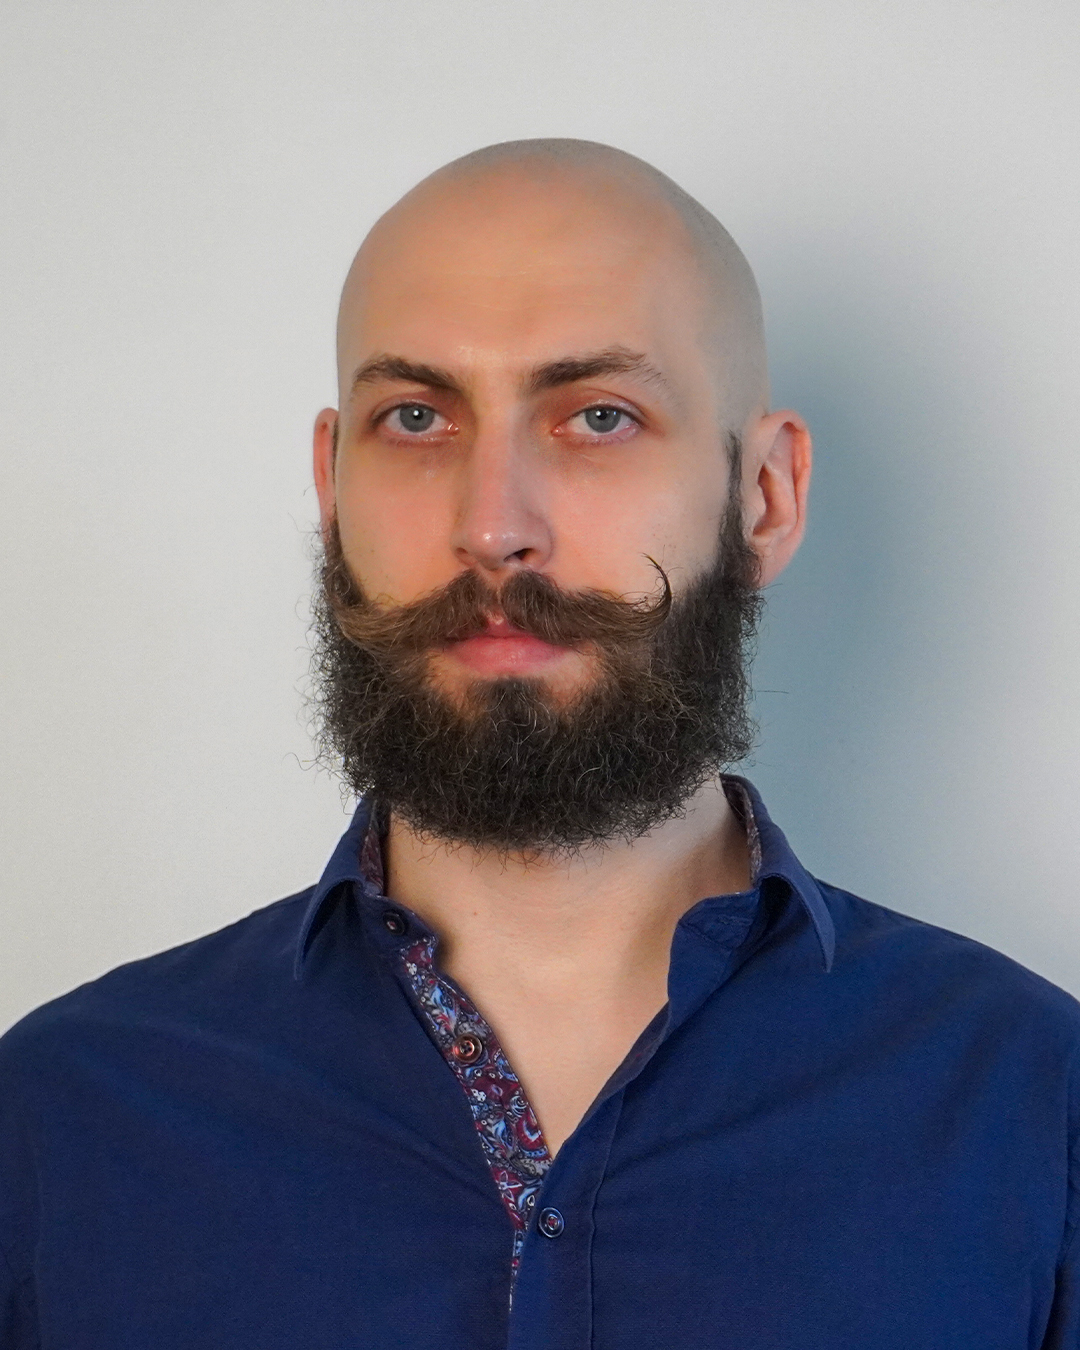
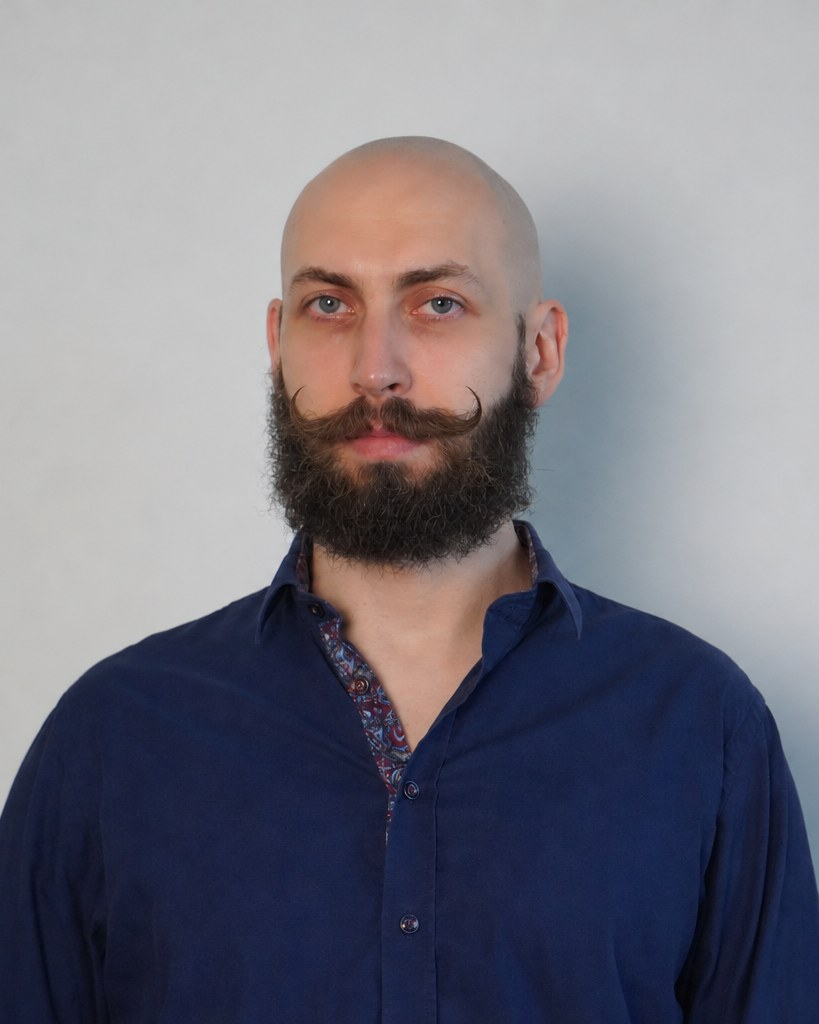
about me

diff --git a/src/content.config.ts b/src/content.config.ts
@@ -117,4 +117,46 @@ const sandbox = defineCollection({
   }),
 });
 
-export const collections = { home, sandbox };
+// The About page: the company in one line, the founder in two, partners, contact.
+const heading = { eyebrow: z.string(), heading: z.string() };
+const about = defineCollection({
+  loader: glob({ pattern: '*.md', base: './src/content/about' }),
+  schema: z.object({
+    title: z.string(),
+    description: z.string(),
+    hero: z.object({
+      eyebrow: z.string(),
+      headline: z.string(),
+      headlineAccent: z.string(),
+      lede: z.string(),
+      ledeEm: z.string(),
+      role: z.string(),
+    }),
+    founder: z.object({ label: z.string(), body: z.string() }),
+    partners: z.object({
+      ...heading,
+      aside: z.string(),
+      items: z
+        .object({
+          name: z.string(),
+          category: z.string(),
+          body: z.string(),
+          href: z.url(),
+          /** File in design-system/assets/; absent → the name stands in for it. */
+          logo: z.string().optional(),
+        })
+        .array()
+        .min(1),
+      visit: z.string(),
+    }),
+    contact: z.object({
+      ...heading,
+      locationLabel: z.string(),
+      location: z.string(),
+      email: z.email(),
+      linkedin: z.url(),
+    }),
+  }),
+});
+
+export const collections = { home, sandbox, about };

diff --git a/tests/e2e/landing.spec.ts b/tests/e2e/landing.spec.ts
@@ -86,3 +86,17 @@ test('no horizontal overflow at 390 px, either locale', async ({ page }) => {
     expect(overflow, path).toBeLessThanOrEqual(0);
   }
 });
+
+test('the About page is the company page, in both locales', async ({ page }) => {
+  for (const [path, lang, headline] of [
+    ['/about', 'en', "Robotics is gated. We're deleting the gate."],
+    ['/de/about', 'de', 'Robotik hat ein Tor. Wir reißen es ab.'],
+  ]) {
+    await page.goto(path);
+    await expect(page.locator('html')).toHaveAttribute('lang', lang);
+    await expect(page.locator('#top h1')).toHaveText(headline);
+    await expect(page.locator('#top img[alt="Marcus Röper"]')).toBeVisible();
+    await expect(page.locator('#partners a[href="https://roboticscollective.org/"] img')).toHaveCount(1);
+    await expect(page.locator('#contact a[href^="mailto:"]')).toHaveCount(1);
+  }
+});

diff --git a/src/content/about/de.md b/src/content/about/de.md
@@ -1,0 +1,32 @@
+---
+title: Über uns — Homunculus Robotics
+description: Homunculus Robotics aus Köln/Bonn baut den Ort, an dem jede:r einen Roboter erfinden kann. Gegründet von Marcus Röper.
+hero:
+  eyebrow: Über uns
+  headline: Robotik hat ein Tor.
+  headlineAccent: Wir reißen es ab.
+  lede: Homunculus Robotics baut den Ort, an dem jede:r einen Roboter erfinden kann — Teile im Browser zusammenstecken, die Physik-Engine Ja oder Nein sagen lassen
+  ledeEm: und zusehen, wie deine Erfindung sich bewegen lernt.
+  role: Gründer
+founder:
+  label: Gründer
+  body: Marcus Röper — ausgezeichneter KI-Entwickler (Deutscher KI-Innovationspreis) mit jahrelanger Erfahrung mit KI für die Industrieautomation.
+partners:
+  eyebrow: 01 — Partner
+  heading: Die Menschen, mit denen das hier entsteht.
+  aside: Communities, Labore und Unternehmen, die am selben Tor arbeiten — von einer anderen Seite.
+  visit: Besuchen →
+  items:
+    - name: Robotics Collective Aachen
+      category: Community
+      body: Aachens offene Robotik-Community — Forschungsgruppen, Startups, Industrie und studentische Teams in einem Raum, von Meetups bis zum Open-Source-Humanoiden.
+      href: https://roboticscollective.org/
+      logo: partner-robotics-collective.png
+contact:
+  eyebrow: 02 — Anderswo
+  heading: Sag Hallo.
+  locationLabel: Standort
+  location: Köln / Bonn
+  email: hello@homunculusrobotics.com
+  linkedin: https://www.linkedin.com/in/marcus-roeper/
+---

diff --git a/src/content/about/en.md b/src/content/about/en.md
@@ -1,0 +1,32 @@
+---
+title: About — Homunculus Robotics
+description: Homunculus Robotics, from Cologne/Bonn, builds the place where anyone can invent a robot. Founded by Marcus Röper.
+hero:
+  eyebrow: About
+  headline: Robotics is gated.
+  headlineAccent: We're deleting the gate.
+  lede: Homunculus Robotics builds the place where anyone can invent a robot — snap parts together in the browser, let the physics engine say yes or no,
+  ledeEm: and watch your invention learn to move.
+  role: Founder
+founder:
+  label: Founder
+  body: Marcus Röper — award-winning AI engineer (German AI Innovation Prize) with years of building AI for industrial automation.
+partners:
+  eyebrow: 01 — Partners
+  heading: The people this is being built with.
+  aside: Communities, labs and companies working on the same gate from a different side.
+  visit: Visit →
+  items:
+    - name: Robotics Collective Aachen
+      category: Community
+      body: Aachen's open robotics community — research groups, startups, industry and student teams in one room, from meetups to an open-source humanoid.
+      href: https://roboticscollective.org/
+      logo: partner-robotics-collective.png
+contact:
+  eyebrow: 02 — Elsewhere
+  heading: Come say hello.
+  locationLabel: Location
+  location: Cologne / Bonn, Germany
+  email: hello@homunculusrobotics.com
+  linkedin: https://www.linkedin.com/in/marcus-roeper/
+---

diff --git a/Roadmap.md b/Roadmap.md
@@ -311,6 +311,10 @@ its shape (`layouts/Sandbox.astro` + a `src/content/<product>/{en,de}.md` pair).
 
 ### Feature 4.2 — About + Knowledge (owner: Marcus) — 10h
 Founder/team, partners, contact; Markdown-driven Knowledge index with RSS.
+**About shipped 2026-09-29** at `/about` (+`/de/about`): `layouts/About.astro` +
+`src/content/about/{en,de}.md` — deliberately compact (company line, two-line
+founder note, partners, contact), not the full founder biography in
+`About.dc.html`. Knowledge is open.
 **Acceptance:** a new post is one `.md` file, no code change.
 
 ### Feature 4.3 — GitHub integration (owner: Marcus) — 4h
